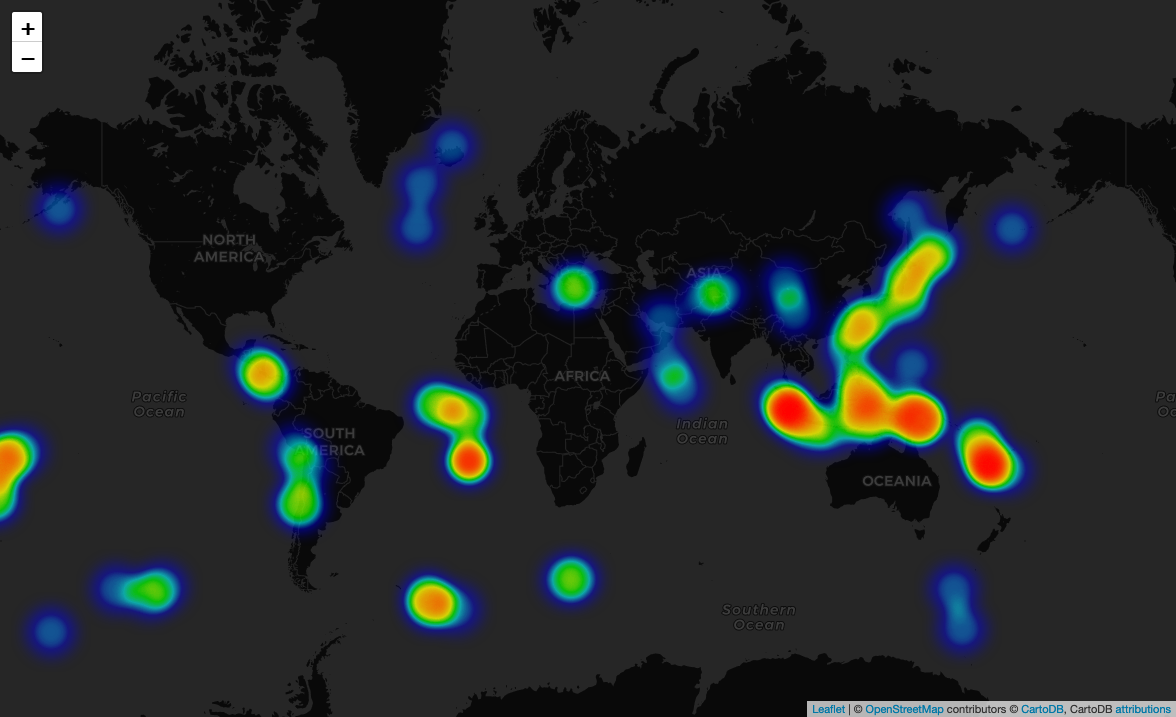
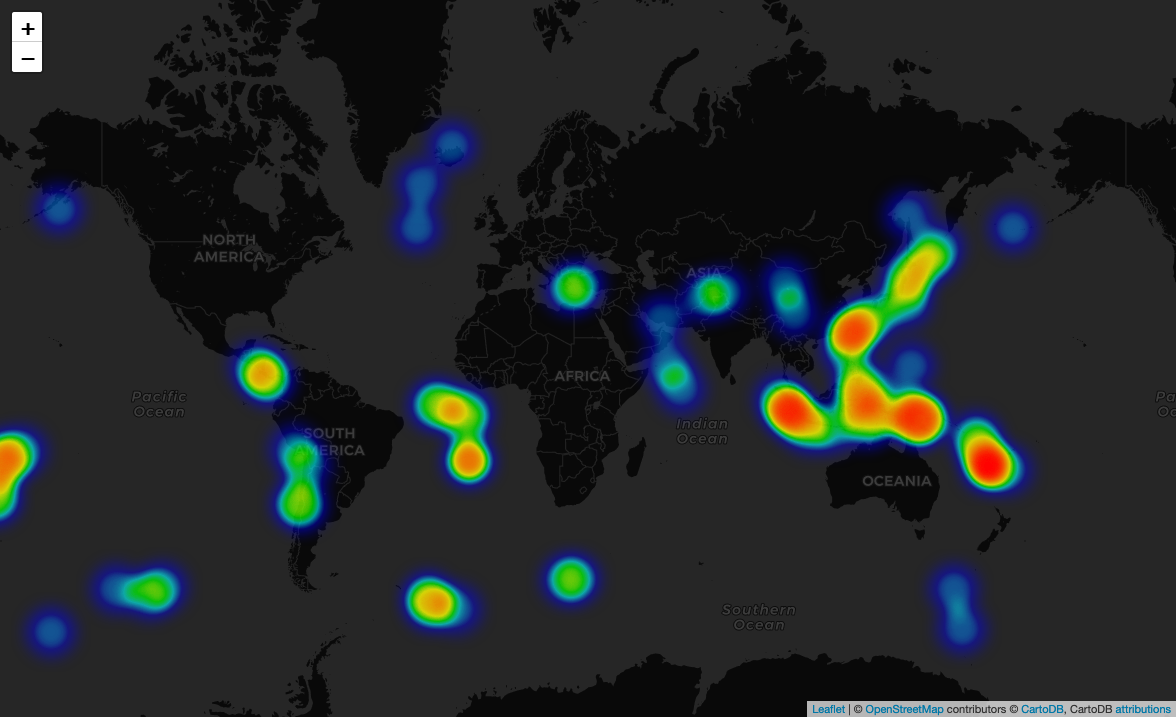
update visuals

diff --git a/results/heat_map_eq.html b/results/heat_map_eq.html
@@ -23,7 +23,7 @@
             <meta name="viewport" content="width=device-width,
                 initial-scale=1.0, maximum-scale=1.0, user-scalable=no" />
             <style>
-                #map_0688b36bb66b560e21be2d5ceea34ec0 {
+                #map_aa1a1e563320975d64418c817c4616cd {
                     position: relative;
                     width: 100.0%;
                     height: 100.0%;
@@ -36,13 +36,13 @@
 </head>
 <body>    
     
-            <div class="folium-map" id="map_0688b36bb66b560e21be2d5ceea34ec0" ></div>
+            <div class="folium-map" id="map_aa1a1e563320975d64418c817c4616cd" ></div>
         
 </body>
 <script>    
     
-            var map_0688b36bb66b560e21be2d5ceea34ec0 = L.map(
-                "map_0688b36bb66b560e21be2d5ceea34ec0",
+            var map_aa1a1e563320975d64418c817c4616cd = L.map(
+                "map_aa1a1e563320975d64418c817c4616cd",
                 {
                     center: [15.0, 30.0],
                     crs: L.CRS.EPSG3857,
@@ -56,15 +56,15 @@
 
         
     
-            var tile_layer_6f1c9ead411f1b91e88eba8c75b6a354 = L.tileLayer(
+            var tile_layer_180d8135d6da1a7b7ef0dd47129d07a8 = L.tileLayer(
                 "https://cartodb-basemaps-{s}.global.ssl.fastly.net/dark_all/{z}/{x}/{y}.png",
                 {"attribution": "\u0026copy; \u003ca href=\"http://www.openstreetmap.org/copyright\"\u003eOpenStreetMap\u003c/a\u003e contributors \u0026copy; \u003ca href=\"http://cartodb.com/attributions\"\u003eCartoDB\u003c/a\u003e, CartoDB \u003ca href =\"http://cartodb.com/attributions\"\u003eattributions\u003c/a\u003e", "detectRetina": false, "maxNativeZoom": 18, "maxZoom": 18, "minZoom": 0, "noWrap": false, "opacity": 1, "subdomains": "abc", "tms": false}
-            ).addTo(map_0688b36bb66b560e21be2d5ceea34ec0);
+            ).addTo(map_aa1a1e563320975d64418c817c4616cd);
         
     
-            var heat_map_50641113da4b66e5777fa4501cbf82f0 = L.heatLayer(
-                [[8.9942, -83.8343, 0.05252350046353155], [35.0695, 26.3288, 0.05567491049134344], [44.2899, 148.9271, 0.05357397047280217], [44.1821, 149.0888, 0.05672538050061407], [-5.6539, 148.7029, 0.06407867056550848], [-19.7279, -176.0829, 0.05252350046353155], [-17.6743, -176.4447, 0.05252350046353155], [-7.2647, 128.9384, 0.05462444048207281], [13.1626, 57.6837, 0.05672538050061407], [-21.5595, 175.5976, 0.0577758505098847], [26.9628, 126.5841, 0.05252350046353155], [4.4945, 62.5197, 0.05357397047280217], [4.4044, 62.572, 0.05462444048207281], [-54.4841, -136.2046, 0.0577758505098847], [-54.6999, -136.1556, 0.06512914057477912], [-32.7298, -179.055, 0.06092726053769659], [13.854, 145.21, 0.06092726053769659], [28.8728, 130.6714, 0.058826320519155324], [-5.7647, 145.396, 0.05357397047280217], [-1.0077, 98.6416, 0.06197773054696723], [-1.0284, 98.6333, 0.06092726053769659], [-21.8231, -176.7876, 0.058826320519155324], [-21.358, -178.8538, 0.05357397047280217], [-22.5165, 170.9031, 0.05357397047280217], [32.4558, 142.4436, 0.05567491049134344], [-6.374, 146.483, 0.08088619071383858], [-1.2028, 98.6188, 0.05987679052842596], [-1.1241, 98.6239, 0.06302820055623785], [-58.7811, -25.2732, 0.05672538050061407], [-2.2311, 138.1671, 0.06197773054696723], [-2.2562, 138.2072, 0.06092726053769659], [-2.251, 138.1876, 0.06407867056550848], [-6.9541, 129.5544, 0.05357397047280217], [-58.3228, -25.5425, 0.05462444048207281], [2.0603, 126.6149, 0.05357397047280217], [-6.0342, 142.7862, 0.05462444048207281], [-2.7779, -12.138, 0.05357397047280217], [-8.9316, 127.1347, 0.05357397047280217], [54.8364, 142.4353, 0.05462444048207281], [-16.1418, -73.4064, 0.05672538050061407], [-25.2582, 179.7024, 0.05672538050061407], [1.3481, 96.8662, 0.05357397047280217], [37.8979, 20.0523, 0.0577758505098847], [-16.2733, -172.8348, 0.05567491049134344], [66.5068, -17.7916, 0.05357397047280217], [-57.2521, -24.0332, 0.05252350046353155], [0.0146, 123.7983, 0.05357397047280217], [-3.2097, 101.4723, 0.05987679052842596], [-54.375, -119.3785, 0.0577758505098847], [-23.0996, -68.9442, 0.05252350046353155], [-56.4916, -25.6996, 0.05987679052842596], [-56.6037, -25.9649, 0.05567491049134344], [-56.5801, -25.7813, 0.06302820055623785], [12.947, -87.3655, 0.05462444048207281], [52.1328, -30.1223, 0.05252350046353155], [-31.8339, -179.1773, 0.05567491049134344], [27.6306, 56.0608, 0.05672538050061407], [-33.4824, -72.2761, 0.05252350046353155], [29.7263, 102.279, 0.06933102061186164], [-56.0067, -124.5405, 0.06407867056550848], [34.6754, 70.7369, 0.05567491049134344], [-21.2477, 168.5367, 0.05567491049134344], [32.3287, 142.4125, 0.05357397047280217], [32.386, 142.5056, 0.05567491049134344], [-0.9371, -21.719, 0.06828055060259101], [-5.0254, 102.9125, 0.05357397047280217], [34.6754, 70.7369, 0.05567491049134344], [-21.2477, 168.5367, 0.05567491049134344], [32.3287, 142.4125, 0.05357397047280217], [32.386, 142.5056, 0.05567491049134344], [-0.9371, -21.719, 0.06828055060259101], [-5.0254, 102.9125, 0.05357397047280217], [8.9942, -83.8343, 0.05252350046353155], [35.0695, 26.3288, 0.05567491049134344], [44.2899, 148.9271, 0.05357397047280217], [44.1821, 149.0888, 0.05672538050061407], [-5.6539, 148.7029, 0.06407867056550848], [-19.7279, -176.0829, 0.05252350046353155], [-17.6743, -176.4447, 0.05252350046353155], [-7.2647, 128.9384, 0.05462444048207281], [13.1626, 57.6837, 0.05672538050061407], [-21.5595, 175.5976, 0.0577758505098847], [26.9628, 126.5841, 0.05252350046353155], [4.4945, 62.5197, 0.05357397047280217], [4.4044, 62.572, 0.05462444048207281], [-54.4841, -136.2046, 0.0577758505098847], [-54.6999, -136.1556, 0.06512914057477912], [-32.7298, -179.055, 0.06092726053769659], [13.854, 145.21, 0.06092726053769659], [28.8728, 130.6714, 0.058826320519155324], [-5.7647, 145.396, 0.05357397047280217], [-1.0077, 98.6416, 0.06197773054696723], [41.2018, 140.1481, 0.05252350046353155], [-20.9751, -178.9445, 0.0577758505098847], [-11.0759, 110.8536, 0.05672538050061407], [-5.8136, 146.0076, 0.05252350046353155], [-6.374, 146.483, 0.08088619071383858], [-1.2028, 98.6188, 0.05987679052842596], [-1.1241, 98.6239, 0.06302820055623785], [-58.7811, -25.2732, 0.05672538050061407], [-2.2311, 138.1671, 0.06197773054696723], [-2.2562, 138.2072, 0.06092726053769659], [-2.251, 138.1876, 0.06407867056550848], [-6.9541, 129.5544, 0.05357397047280217], [-58.3228, -25.5425, 0.05462444048207281], [2.0603, 126.6149, 0.05357397047280217], [-6.0342, 142.7862, 0.05462444048207281], [-2.7779, -12.138, 0.05357397047280217], [-8.9316, 127.1347, 0.05357397047280217], [54.8364, 142.4353, 0.05462444048207281], [-16.1418, -73.4064, 0.05672538050061407], [-25.2582, 179.7024, 0.05672538050061407], [1.3481, 96.8662, 0.05357397047280217], [37.8979, 20.0523, 0.0577758505098847], [-16.2733, -172.8348, 0.05567491049134344], [66.5068, -17.7916, 0.05357397047280217], [-57.2521, -24.0332, 0.05252350046353155], [0.0146, 123.7983, 0.05357397047280217], [-3.2097, 101.4723, 0.05987679052842596], [-54.375, -119.3785, 0.0577758505098847], [-23.0996, -68.9442, 0.05252350046353155], [-56.4916, -25.6996, 0.05987679052842596], [-56.6037, -25.9649, 0.05567491049134344], [-56.5801, -25.7813, 0.06302820055623785], [12.947, -87.3655, 0.05462444048207281], [52.1328, -30.1223, 0.05252350046353155], [-31.8339, -179.1773, 0.05567491049134344], [27.6306, 56.0608, 0.05672538050061407], [-33.4824, -72.2761, 0.05252350046353155], [29.7263, 102.279, 0.06933102061186164], [-56.0067, -124.5405, 0.06407867056550848], [-6.2871, 103.6729, 0.05357397047280217], [-62.1751, 161.4247, 0.06092726053769659], [-20.8281, -173.4103, 0.05462444048207281], [-5.0755, 103.1012, 0.06302820055623785], [-5.3913, 131.3951, 0.05252350046353155], [-62.5512, -158.9885, 0.05672538050061407], [-62.7179, -158.7608, 0.05462444048207281], [-9.0889, 115.5827, 0.0577758505098847], [-0.9625, -24.6462, 0.05357397047280217], [25.2069, 123.5946, 0.05567491049134344], [60.6106, -28.6769, 0.05357397047280217], [-57.9983, -25.7068, 0.05462444048207281], [-20.5094, -11.7191, 0.05462444048207281], [-56.1713, -27.3639, 0.05567491049134344], [-20.4496, -11.7901, 0.05357397047280217], [-20.2238, -12.4116, 0.05357397047280217], [-22.2898, 171.6659, 0.05252350046353155], [0.3403, 124.3752, 0.05672538050061407], [37.6284, 141.6741, 0.05357397047280217], [-34.3475, -70.5794, 0.05567491049134344], [-7.0096, 125.4748, 0.0577758505098847], [33.1659, 141.6785, 0.05672538050061407], [56.066, -155.957, 0.05462444048207281], [-57.9983, -25.7068, 0.05462444048207281], [-57.9983, -25.7068, 0.05462444048207281], [-20.5094, -11.7191, 0.05462444048207281], [-57.9983, -25.7068, 0.05462444048207281], [-20.5094, -11.7191, 0.05462444048207281], [-56.1713, -27.3639, 0.05567491049134344], [-20.5094, -11.7191, 0.05357397047280217], [-20.4496, -11.7901, 0.05357397047280217], [-20.5094, -11.7191, 0.05462444048207281], [-20.4496, -11.7901, 0.05462444048207281], [-20.2238, -12.4116, 0.05357397047280217], [-22.2898, 171.6659, 0.05252350046353155], [-22.2898, 171.6659, 0.05672538050061407], [0.3403, 124.3752, 0.05672538050061407], [-22.2898, 171.6659, 0.05252350046353155], [0.3403, 124.3752, 0.05252350046353155], [37.6284, 141.6741, 0.05357397047280217], [0.3403, 124.3752, 0.05567491049134344], [-34.3475, -70.5794, 0.05567491049134344], [0.3403, 124.3752, 0.05672538050061407], [-34.3475, -70.5794, 0.05672538050061407], [-7.0096, 125.4748, 0.0577758505098847], [33.1659, 141.6785, 0.05672538050061407], [-7.0096, 125.4748, 0.05462444048207281], [56.066, -155.957, 0.05462444048207281], [-7.0096, 125.4748, 0.0577758505098847], [56.066, -155.957, 0.0577758505098847], [-5.9323, 146.6275, 0.05252350046353155], [44.3002, 149.5379, 0.05252350046353155], [44.3657, 149.5, 0.05357397047280217], [-22.4001, 170.3261, 0.05252350046353155], [44.3002, 149.5379, 0.05462444048207281], [-54.8013, 158.5708, 0.05462444048207281], [44.3002, 149.5379, 0.05252350046353155], [-54.8013, 158.5708, 0.05252350046353155], [-7.1058, -12.8951, 0.05252350046353155], [-7.1058, -12.8951, 0.05567491049134344], [38.4817, 99.1373, 0.05567491049134344], [-7.1058, -12.8951, 0.05252350046353155], [38.4817, 99.1373, 0.05252350046353155], [6.6378, 125.0013, 0.05462444048207281], [38.4817, 99.1373, 0.05357397047280217], [-5.9927, 147.3494, 0.05357397047280217], [38.4817, 99.1373, 0.05567491049134344], [-5.9927, 147.3494, 0.05567491049134344], [-22.0641, 170.9274, 0.06512914057477912], [51.837, 178.1519, 0.05672538050061407], [-32.919, -178.004, 0.0714319606304029], [-52.8982, 22.1729, 0.05567491049134344], [37.9837, 27.1478, 0.05252350046353155], [-15.7976, 167.0591, 0.06197773054696723], [1.8151, 126.3654, 0.05987679052842596], [60.6106, -28.6769, 0.05357397047280217], [-56.1713, -27.3639, 0.05567491049134344], [-57.9983, -25.7068, 0.05357397047280217], [-20.4496, -11.7901, 0.05357397047280217], [-57.9983, -25.7068, 0.05462444048207281], [-20.4496, -11.7901, 0.05462444048207281], [-20.2238, -12.4116, 0.05357397047280217], [-20.2238, -12.4116, 0.05357397047280217], [37.6284, 141.6741, 0.05357397047280217], [-20.2238, -12.4116, 0.05357397047280217], [37.6284, 141.6741, 0.05357397047280217], [-22.2898, 171.6659, 0.05567491049134344], [-34.3475, -70.5794, 0.05567491049134344], [-22.2898, 171.6659, 0.05252350046353155], [-34.3475, -70.5794, 0.05252350046353155], [33.1659, 141.6785, 0.05672538050061407], [56.066, -155.957, 0.05462444048207281], [-5.9323, 146.6275, 0.05252350046353155], [-5.9323, 146.6275, 0.05357397047280217], [44.3657, 149.5, 0.05357397047280217], [-5.9323, 146.6275, 0.05252350046353155], [44.3657, 149.5, 0.05252350046353155], [-22.4001, 170.3261, 0.05252350046353155], [-54.8013, 158.5708, 0.05462444048207281], [6.6378, 125.0013, 0.05462444048207281], [-5.9927, 147.3494, 0.05357397047280217], [-9.0889, 115.5827, 0.0577758505098847], [-0.9625, -24.6462, 0.05357397047280217], [25.2069, 123.5946, 0.05567491049134344], [60.6106, -28.6769, 0.05357397047280217], [-20.5094, -11.7191, 0.05462444048207281], [-56.1713, -27.3639, 0.05567491049134344], [-20.4496, -11.7901, 0.05357397047280217], [0.3403, 124.3752, 0.05672538050061407], [37.6284, 141.6741, 0.05357397047280217], [-34.3475, -70.5794, 0.05567491049134344], [-7.0096, 125.4748, 0.0577758505098847], [33.1659, 141.6785, 0.05672538050061407], [56.066, -155.957, 0.05462444048207281], [44.3002, 149.5379, 0.05252350046353155], [44.3657, 149.5, 0.05357397047280217], [-22.4001, 170.3261, 0.05252350046353155], [-54.8013, 158.5708, 0.05462444048207281], [17.3314, 120.7572, 0.05462444048207281], [-14.4944, 167.2935, 0.05357397047280217], [-4.7074, 101.7568, 0.05252350046353155], [47.8584, 153.7172, 0.05357397047280217], [-19.9047, 168.7535, 0.05462444048207281], [-21.9825, -68.4982, 0.05672538050061407], [-6.2871, 103.6729, 0.05357397047280217], [-62.1751, 161.4247, 0.06092726053769659], [-20.8281, -173.4103, 0.05462444048207281], [-5.0755, 103.1012, 0.06302820055623785], [-5.3913, 131.3951, 0.05252350046353155], [-62.5512, -158.9885, 0.05672538050061407], [-62.7179, -158.7608, 0.05462444048207281], [-9.0889, 115.5827, 0.0577758505098847], [-0.9625, -24.6462, 0.05357397047280217], [25.2069, 123.5946, 0.05567491049134344], [60.6106, -28.6769, 0.05357397047280217], [-1.0284, 98.6333, 0.06092726053769659], [-21.8231, -176.7876, 0.058826320519155324], [-21.358, -178.8538, 0.05357397047280217], [-22.5165, 170.9031, 0.05357397047280217], [32.4558, 142.4436, 0.05567491049134344], [17.3314, 120.7572, 0.05462444048207281], [-14.4944, 167.2935, 0.05357397047280217], [-4.7074, 101.7568, 0.05252350046353155], [47.8584, 153.7172, 0.05357397047280217], [-19.9047, 168.7535, 0.05462444048207281], [-21.9825, -68.4982, 0.05672538050061407], [-6.2871, 103.6729, 0.05357397047280217], [-62.1751, 161.4247, 0.06092726053769659], [-20.8281, -173.4103, 0.05462444048207281], [-5.0755, 103.1012, 0.06302820055623785], [-5.3913, 131.3951, 0.05252350046353155], [-62.5512, -158.9885, 0.05672538050061407], [-62.7179, -158.7608, 0.05462444048207281], [-9.0889, 115.5827, 0.0577758505098847], [-0.9625, -24.6462, 0.05357397047280217], [25.2069, 123.5946, 0.05567491049134344], [22.9716, 121.2155, 0.0577758505098847], [23.0891, 121.2412, 0.05357397047280217], [-20.1807, -69.1546, 0.05357397047280217], [23.0, 121.2, 0.06933102061186164], [-7.265, 105.0794, 0.05357397047280217], [-52.7327, 25.7117, 0.05462444048207281], [-30.089, -177.9186, 0.05567491049134344], [-22.3617, 170.7824, 0.0577758505098847], [-5.4389, 148.1699, 0.05462444048207281], [11.8598, 141.1943, 0.05357397047280217], [35.9433, 77.7578, 0.05252350046353155], [52.11, 179.827, 0.05357397047280217], [-12.5416, 166.5552, 0.05357397047280217], [-21.196, 170.139, 0.07353290064894416], [12.55, -87.8124, 0.05462444048207281], [-16.915, -168.778, 0.06302820055623785], [12.0144, 143.5474, 0.0577758505098847], [-56.5379, -25.5161, 0.05357397047280217], [7.2247, -82.2868, 0.05462444048207281], [-20.426, -11.7252, 0.05357397047280217], [-22.9185, -178.4881, 0.05252350046353155], [-58.5736, -16.072, 0.05252350046353155], [-6.2795, 146.3035, 0.05462444048207281], [6.1766, 127.5713, 0.058826320519155324], [41.9783, 145.0056, 0.05252350046353155], [41.2018, 140.1481, 0.05252350046353155], [-20.9751, -178.9445, 0.0577758505098847], [-11.0759, 110.8536, 0.05672538050061407], [-5.8136, 146.0076, 0.05252350046353155]],
+            var heat_map_1efeb938462c913536a3335ec756df8d = L.heatLayer(
+                [[8.9942, -83.8343, 0.04977024340160621], [35.0695, 26.3288, 0.05275645800570258], [44.2899, 148.9271, 0.05076564826963833], [44.1821, 149.0888, 0.05375186287373471], [-5.6539, 148.7029, 0.06071969694995957], [-19.7279, -176.0829, 0.04977024340160621], [-17.6743, -176.4447, 0.04977024340160621], [-7.2647, 128.9384, 0.05176105313767046], [13.1626, 57.6837, 0.05375186287373471], [-21.5595, 175.5976, 0.05474726774176683], [26.9628, 126.5841, 0.04977024340160621], [4.4945, 62.5197, 0.05076564826963833], [4.4044, 62.572, 0.05176105313767046], [-54.4841, -136.2046, 0.05474726774176683], [-54.6999, -136.1556, 0.061715101817991704], [-32.7298, -179.055, 0.0577334823458632], [13.854, 145.21, 0.0577334823458632], [28.8728, 130.6714, 0.055742672609798954], [-5.7647, 145.396, 0.05076564826963833], [-1.0077, 98.6416, 0.05872888721389533], [-1.0284, 98.6333, 0.0577334823458632], [-21.8231, -176.7876, 0.055742672609798954], [-21.358, -178.8538, 0.05076564826963833], [-22.5165, 170.9031, 0.05076564826963833], [32.4558, 142.4436, 0.05275645800570258], [-6.374, 146.483, 0.07664617483847357], [-1.2028, 98.6188, 0.05673807747783108], [-1.1241, 98.6239, 0.05972429208192745], [-58.7811, -25.2732, 0.05375186287373471], [-2.2311, 138.1671, 0.05872888721389533], [-2.2562, 138.2072, 0.0577334823458632], [-2.251, 138.1876, 0.06071969694995957], [-6.9541, 129.5544, 0.05076564826963833], [-58.3228, -25.5425, 0.05176105313767046], [2.0603, 126.6149, 0.05076564826963833], [-6.0342, 142.7862, 0.05176105313767046], [-2.7779, -12.138, 0.05076564826963833], [-8.9316, 127.1347, 0.05076564826963833], [54.8364, 142.4353, 0.05176105313767046], [-16.1418, -73.4064, 0.05375186287373471], [-25.2582, 179.7024, 0.05375186287373471], [1.3481, 96.8662, 0.05076564826963833], [37.8979, 20.0523, 0.05474726774176683], [-16.2733, -172.8348, 0.05275645800570258], [66.5068, -17.7916, 0.05076564826963833], [-57.2521, -24.0332, 0.04977024340160621], [0.0146, 123.7983, 0.05076564826963833], [-3.2097, 101.4723, 0.05673807747783108], [-54.375, -119.3785, 0.05474726774176683], [-23.0996, -68.9442, 0.04977024340160621], [-56.4916, -25.6996, 0.05673807747783108], [-56.6037, -25.9649, 0.05275645800570258], [-56.5801, -25.7813, 0.05972429208192745], [12.947, -87.3655, 0.05176105313767046], [52.1328, -30.1223, 0.04977024340160621], [-31.8339, -179.1773, 0.05275645800570258], [27.6306, 56.0608, 0.05375186287373471], [-33.4824, -72.2761, 0.04977024340160621], [29.7263, 102.279, 0.06569672129012019], [-56.0067, -124.5405, 0.06071969694995957], [34.6754, 70.7369, 0.05275645800570258], [-21.2477, 168.5367, 0.05275645800570258], [32.3287, 142.4125, 0.05076564826963833], [32.386, 142.5056, 0.05275645800570258], [-0.9371, -21.719, 0.06470131642208807], [-5.0254, 102.9125, 0.05076564826963833], [34.6754, 70.7369, 0.05275645800570258], [-21.2477, 168.5367, 0.05275645800570258], [32.3287, 142.4125, 0.05076564826963833], [32.386, 142.5056, 0.05275645800570258], [-0.9371, -21.719, 0.06470131642208807], [-5.0254, 102.9125, 0.05076564826963833], [8.9942, -83.8343, 0.04977024340160621], [35.0695, 26.3288, 0.05275645800570258], [44.2899, 148.9271, 0.05076564826963833], [44.1821, 149.0888, 0.05375186287373471], [-5.6539, 148.7029, 0.06071969694995957], [-19.7279, -176.0829, 0.04977024340160621], [-17.6743, -176.4447, 0.04977024340160621], [-7.2647, 128.9384, 0.05176105313767046], [13.1626, 57.6837, 0.05375186287373471], [-21.5595, 175.5976, 0.05474726774176683], [26.9628, 126.5841, 0.04977024340160621], [4.4945, 62.5197, 0.05076564826963833], [4.4044, 62.572, 0.05176105313767046], [-54.4841, -136.2046, 0.05474726774176683], [-54.6999, -136.1556, 0.061715101817991704], [-32.7298, -179.055, 0.0577334823458632], [13.854, 145.21, 0.0577334823458632], [28.8728, 130.6714, 0.055742672609798954], [-5.7647, 145.396, 0.05076564826963833], [-1.0077, 98.6416, 0.05872888721389533], [41.2018, 140.1481, 0.04977024340160621], [-20.9751, -178.9445, 0.05474726774176683], [-11.0759, 110.8536, 0.05375186287373471], [-5.8136, 146.0076, 0.04977024340160621], [-6.374, 146.483, 0.07664617483847357], [-1.2028, 98.6188, 0.05673807747783108], [-1.1241, 98.6239, 0.05972429208192745], [-58.7811, -25.2732, 0.05375186287373471], [-2.2311, 138.1671, 0.05872888721389533], [-2.2562, 138.2072, 0.0577334823458632], [-2.251, 138.1876, 0.06071969694995957], [-6.9541, 129.5544, 0.05076564826963833], [-58.3228, -25.5425, 0.05176105313767046], [2.0603, 126.6149, 0.05076564826963833], [-6.0342, 142.7862, 0.05176105313767046], [-2.7779, -12.138, 0.05076564826963833], [-8.9316, 127.1347, 0.05076564826963833], [54.8364, 142.4353, 0.05176105313767046], [-16.1418, -73.4064, 0.05375186287373471], [-25.2582, 179.7024, 0.05375186287373471], [1.3481, 96.8662, 0.05076564826963833], [37.8979, 20.0523, 0.05474726774176683], [-16.2733, -172.8348, 0.05275645800570258], [66.5068, -17.7916, 0.05076564826963833], [-57.2521, -24.0332, 0.04977024340160621], [0.0146, 123.7983, 0.05076564826963833], [-3.2097, 101.4723, 0.05673807747783108], [-54.375, -119.3785, 0.05474726774176683], [-23.0996, -68.9442, 0.04977024340160621], [-56.4916, -25.6996, 0.05673807747783108], [-56.6037, -25.9649, 0.05275645800570258], [-56.5801, -25.7813, 0.05972429208192745], [12.947, -87.3655, 0.05176105313767046], [52.1328, -30.1223, 0.04977024340160621], [-31.8339, -179.1773, 0.05275645800570258], [27.6306, 56.0608, 0.05375186287373471], [-33.4824, -72.2761, 0.04977024340160621], [29.7263, 102.279, 0.06569672129012019], [-56.0067, -124.5405, 0.06071969694995957], [-6.2871, 103.6729, 0.05076564826963833], [-62.1751, 161.4247, 0.0577334823458632], [-20.8281, -173.4103, 0.05176105313767046], [-5.0755, 103.1012, 0.05972429208192745], [-5.3913, 131.3951, 0.04977024340160621], [-62.5512, -158.9885, 0.05375186287373471], [-62.7179, -158.7608, 0.05176105313767046], [-9.0889, 115.5827, 0.05474726774176683], [-0.9625, -24.6462, 0.05076564826963833], [25.2069, 123.5946, 0.05275645800570258], [60.6106, -28.6769, 0.05076564826963833], [-57.9983, -25.7068, 0.05176105313767046], [-20.5094, -11.7191, 0.05176105313767046], [-56.1713, -27.3639, 0.05275645800570258], [-20.4496, -11.7901, 0.05076564826963833], [-20.2238, -12.4116, 0.05076564826963833], [-22.2898, 171.6659, 0.04977024340160621], [0.3403, 124.3752, 0.05375186287373471], [37.6284, 141.6741, 0.05076564826963833], [-34.3475, -70.5794, 0.05275645800570258], [-7.0096, 125.4748, 0.05474726774176683], [33.1659, 141.6785, 0.05375186287373471], [56.066, -155.957, 0.05176105313767046], [-57.9983, -25.7068, 0.05176105313767046], [-57.9983, -25.7068, 0.05176105313767046], [-20.5094, -11.7191, 0.05176105313767046], [-57.9983, -25.7068, 0.05176105313767046], [-20.5094, -11.7191, 0.05176105313767046], [-56.1713, -27.3639, 0.05275645800570258], [-20.5094, -11.7191, 0.05076564826963833], [-20.4496, -11.7901, 0.05076564826963833], [-20.5094, -11.7191, 0.05176105313767046], [-20.4496, -11.7901, 0.05176105313767046], [-20.2238, -12.4116, 0.05076564826963833], [-22.2898, 171.6659, 0.04977024340160621], [-22.2898, 171.6659, 0.05375186287373471], [0.3403, 124.3752, 0.05375186287373471], [-22.2898, 171.6659, 0.04977024340160621], [0.3403, 124.3752, 0.04977024340160621], [37.6284, 141.6741, 0.05076564826963833], [0.3403, 124.3752, 0.05275645800570258], [-34.3475, -70.5794, 0.05275645800570258], [0.3403, 124.3752, 0.05375186287373471], [-34.3475, -70.5794, 0.05375186287373471], [-7.0096, 125.4748, 0.05474726774176683], [33.1659, 141.6785, 0.05375186287373471], [-7.0096, 125.4748, 0.05176105313767046], [56.066, -155.957, 0.05176105313767046], [-7.0096, 125.4748, 0.05474726774176683], [56.066, -155.957, 0.05474726774176683], [-5.9323, 146.6275, 0.04977024340160621], [44.3002, 149.5379, 0.04977024340160621], [44.3657, 149.5, 0.05076564826963833], [-22.4001, 170.3261, 0.04977024340160621], [44.3002, 149.5379, 0.05176105313767046], [-54.8013, 158.5708, 0.05176105313767046], [44.3002, 149.5379, 0.04977024340160621], [-54.8013, 158.5708, 0.04977024340160621], [-7.1058, -12.8951, 0.04977024340160621], [-7.1058, -12.8951, 0.05275645800570258], [38.4817, 99.1373, 0.05275645800570258], [-7.1058, -12.8951, 0.04977024340160621], [38.4817, 99.1373, 0.04977024340160621], [6.6378, 125.0013, 0.05176105313767046], [38.4817, 99.1373, 0.05076564826963833], [-5.9927, 147.3494, 0.05076564826963833], [38.4817, 99.1373, 0.05275645800570258], [-5.9927, 147.3494, 0.05275645800570258], [-22.0641, 170.9274, 0.061715101817991704], [51.837, 178.1519, 0.05375186287373471], [-32.919, -178.004, 0.06768753102618444], [-52.8982, 22.1729, 0.05275645800570258], [37.9837, 27.1478, 0.04977024340160621], [-15.7976, 167.0591, 0.05872888721389533], [1.8151, 126.3654, 0.05673807747783108], [60.6106, -28.6769, 0.05076564826963833], [-56.1713, -27.3639, 0.05275645800570258], [-57.9983, -25.7068, 0.05076564826963833], [-20.4496, -11.7901, 0.05076564826963833], [-57.9983, -25.7068, 0.05176105313767046], [-20.4496, -11.7901, 0.05176105313767046], [-20.2238, -12.4116, 0.05076564826963833], [-20.2238, -12.4116, 0.05076564826963833], [37.6284, 141.6741, 0.05076564826963833], [-20.2238, -12.4116, 0.05076564826963833], [37.6284, 141.6741, 0.05076564826963833], [-22.2898, 171.6659, 0.05275645800570258], [-34.3475, -70.5794, 0.05275645800570258], [-22.2898, 171.6659, 0.04977024340160621], [-34.3475, -70.5794, 0.04977024340160621], [33.1659, 141.6785, 0.05375186287373471], [56.066, -155.957, 0.05176105313767046], [-5.9323, 146.6275, 0.04977024340160621], [-5.9323, 146.6275, 0.05076564826963833], [44.3657, 149.5, 0.05076564826963833], [-5.9323, 146.6275, 0.04977024340160621], [44.3657, 149.5, 0.04977024340160621], [-22.4001, 170.3261, 0.04977024340160621], [-54.8013, 158.5708, 0.05176105313767046], [6.6378, 125.0013, 0.05176105313767046], [-5.9927, 147.3494, 0.05076564826963833], [-9.0889, 115.5827, 0.05474726774176683], [-0.9625, -24.6462, 0.05076564826963833], [25.2069, 123.5946, 0.05275645800570258], [60.6106, -28.6769, 0.05076564826963833], [-20.5094, -11.7191, 0.05176105313767046], [-56.1713, -27.3639, 0.05275645800570258], [-20.4496, -11.7901, 0.05076564826963833], [0.3403, 124.3752, 0.05375186287373471], [37.6284, 141.6741, 0.05076564826963833], [-34.3475, -70.5794, 0.05275645800570258], [-7.0096, 125.4748, 0.05474726774176683], [33.1659, 141.6785, 0.05375186287373471], [56.066, -155.957, 0.05176105313767046], [44.3002, 149.5379, 0.04977024340160621], [44.3657, 149.5, 0.05076564826963833], [-22.4001, 170.3261, 0.04977024340160621], [-54.8013, 158.5708, 0.05176105313767046], [17.3314, 120.7572, 0.05176105313767046], [-14.4944, 167.2935, 0.05076564826963833], [-4.7074, 101.7568, 0.04977024340160621], [47.8584, 153.7172, 0.05076564826963833], [-19.9047, 168.7535, 0.05176105313767046], [-21.9825, -68.4982, 0.05375186287373471], [-6.2871, 103.6729, 0.05076564826963833], [-62.1751, 161.4247, 0.0577334823458632], [-20.8281, -173.4103, 0.05176105313767046], [-5.0755, 103.1012, 0.05972429208192745], [-5.3913, 131.3951, 0.04977024340160621], [-62.5512, -158.9885, 0.05375186287373471], [-62.7179, -158.7608, 0.05176105313767046], [-9.0889, 115.5827, 0.05474726774176683], [-0.9625, -24.6462, 0.05076564826963833], [25.2069, 123.5946, 0.05275645800570258], [60.6106, -28.6769, 0.05076564826963833], [-1.0284, 98.6333, 0.0577334823458632], [-21.8231, -176.7876, 0.055742672609798954], [-21.358, -178.8538, 0.05076564826963833], [-22.5165, 170.9031, 0.05076564826963833], [32.4558, 142.4436, 0.05275645800570258], [17.3314, 120.7572, 0.05176105313767046], [-14.4944, 167.2935, 0.05076564826963833], [-4.7074, 101.7568, 0.04977024340160621], [47.8584, 153.7172, 0.05076564826963833], [-19.9047, 168.7535, 0.05176105313767046], [-21.9825, -68.4982, 0.05375186287373471], [-6.2871, 103.6729, 0.05076564826963833], [-62.1751, 161.4247, 0.0577334823458632], [-20.8281, -173.4103, 0.05176105313767046], [-5.0755, 103.1012, 0.05972429208192745], [-5.3913, 131.3951, 0.04977024340160621], [-62.5512, -158.9885, 0.05375186287373471], [-62.7179, -158.7608, 0.05176105313767046], [-9.0889, 115.5827, 0.05474726774176683], [-0.9625, -24.6462, 0.05076564826963833], [25.2069, 123.5946, 0.05275645800570258], [26.232, 126.0445, 0.04977024340160621], [-10.8151, 164.2384, 0.05474726774176683], [23.1987, 121.2979, 0.05474726774176683], [23.0634, 121.2995, 0.05176105313767046], [26.3351, 126.0564, 0.05176105313767046], [26.2527, 126.0142, 0.05673807747783108], [23.0785, 121.2325, 0.05076564826963833], [23.0886, 121.315, 0.05176105313767046], [23.111, 121.255, 0.07166915049831295], [23.1286, 121.2723, 0.055742672609798954], [22.9716, 121.2155, 0.05474726774176683], [23.0891, 121.2412, 0.05076564826963833], [-20.1807, -69.1546, 0.05076564826963833], [23.0, 121.2, 0.06569672129012019], [-7.265, 105.0794, 0.05076564826963833], [-52.7327, 25.7117, 0.05176105313767046], [-30.089, -177.9186, 0.05275645800570258], [-22.3617, 170.7824, 0.05474726774176683], [-5.4389, 148.1699, 0.05176105313767046], [11.8598, 141.1943, 0.05076564826963833], [35.9433, 77.7578, 0.04977024340160621], [52.11, 179.827, 0.05076564826963833], [-12.5416, 166.5552, 0.05076564826963833], [-21.196, 170.139, 0.0696783407622487], [12.55, -87.8124, 0.05176105313767046], [-16.915, -168.778, 0.05972429208192745], [12.0144, 143.5474, 0.05474726774176683], [-56.5379, -25.5161, 0.05076564826963833], [7.2247, -82.2868, 0.05176105313767046], [-20.426, -11.7252, 0.05076564826963833], [-22.9185, -178.4881, 0.04977024340160621], [-58.5736, -16.072, 0.04977024340160621], [-6.2795, 146.3035, 0.05176105313767046], [6.1766, 127.5713, 0.055742672609798954], [41.9783, 145.0056, 0.04977024340160621], [22.9716, 121.2155, 0.05474726774176683], [23.0891, 121.2412, 0.05076564826963833], [-20.1807, -69.1546, 0.05076564826963833], [23.0, 121.2, 0.06569672129012019], [-7.265, 105.0794, 0.05076564826963833], [-52.7327, 25.7117, 0.05176105313767046], [-30.089, -177.9186, 0.05275645800570258], [-22.3617, 170.7824, 0.05474726774176683], [-5.4389, 148.1699, 0.05176105313767046], [11.8598, 141.1943, 0.05076564826963833], [35.9433, 77.7578, 0.04977024340160621], [52.11, 179.827, 0.05076564826963833], [-12.5416, 166.5552, 0.05076564826963833], [-21.196, 170.139, 0.0696783407622487], [12.55, -87.8124, 0.05176105313767046], [-16.915, -168.778, 0.05972429208192745], [12.0144, 143.5474, 0.05474726774176683], [-56.5379, -25.5161, 0.05076564826963833], [7.2247, -82.2868, 0.05176105313767046], [-20.426, -11.7252, 0.05076564826963833], [-22.9185, -178.4881, 0.04977024340160621], [-58.5736, -16.072, 0.04977024340160621], [-6.2795, 146.3035, 0.05176105313767046], [6.1766, 127.5713, 0.055742672609798954], [41.9783, 145.0056, 0.04977024340160621], [41.2018, 140.1481, 0.04977024340160621], [-20.9751, -178.9445, 0.05474726774176683], [-11.0759, 110.8536, 0.05375186287373471], [-5.8136, 146.0076, 0.04977024340160621]],
                 {"blur": 15, "maxZoom": 18, "minOpacity": 0.5, "radius": 25}
-            ).addTo(map_0688b36bb66b560e21be2d5ceea34ec0);
+            ).addTo(map_aa1a1e563320975d64418c817c4616cd);
         
 </script>
